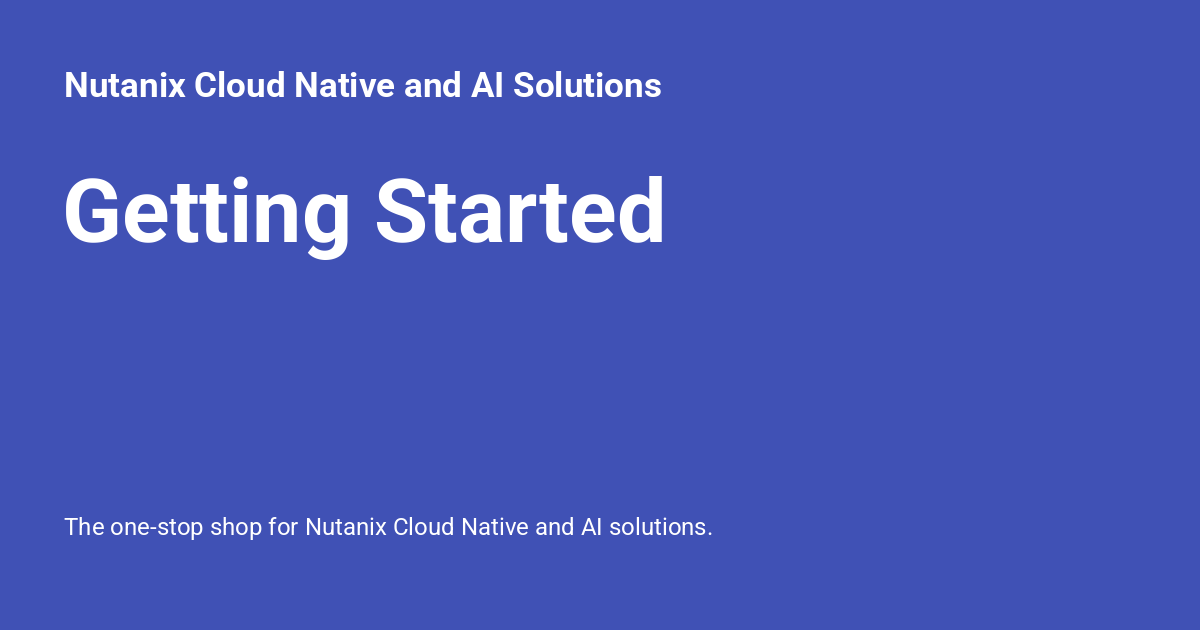
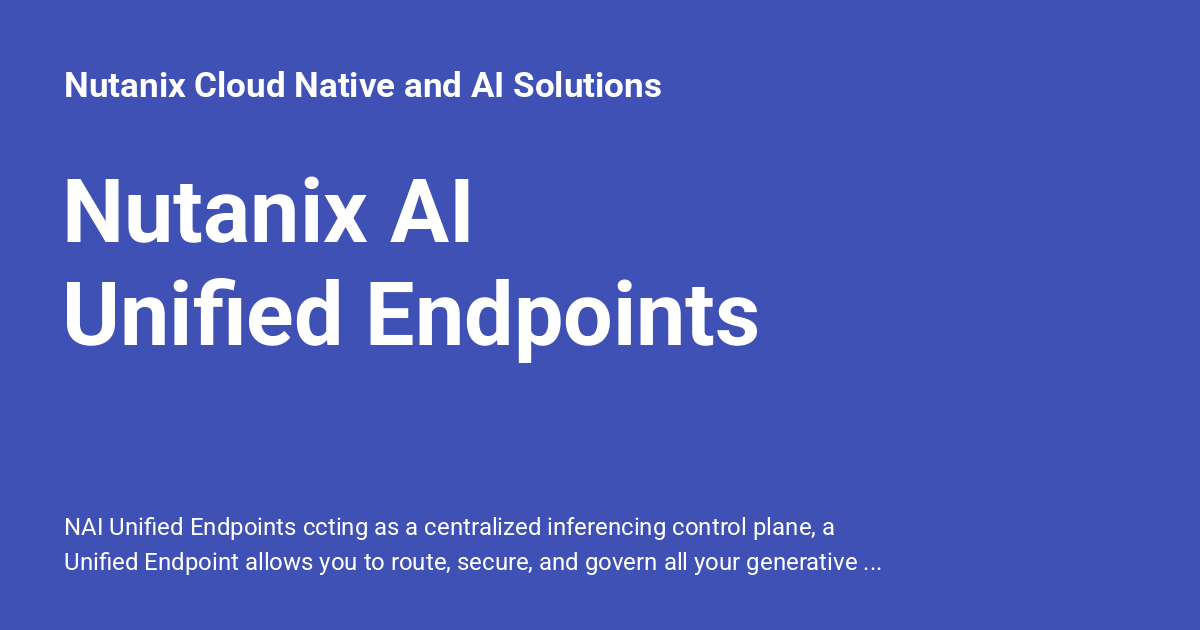
Deployed afb62fa8 to 2.7.0 with MkDocs 1.6.1 and mike 2.2.0

Changed region(s): [[0.0308, 0.4222, 0.6475, 0.573], [0.0308, 0.2714, 0.555, 0.4222], [0.0308, 0.8143, 0.7092, 0.9048]]

diff --git a/2.7.0/uep/index.html b/2.7.0/uep/index.html
@@ -6,7 +6,7 @@
       <meta charset="utf-8">
       <meta name="viewport" content="width=device-width,initial-scale=1">
       
-        <meta name="description" content="The one-stop shop for Nutanix Cloud Native and AI solutions. ">
+        <meta name="description" content="NAI Unified Endpoints ccting as a centralized inferencing control plane, a Unified Endpoint allows you to route, secure, and govern all your generative AI models—both self-hosted and cloud-based—behind a single, OpenAI-compatible API endpoint, all without needing to refactor your application code.">
       
       
       
@@ -27,7 +27,7 @@
     
     
       
-        <title>Getting Started - Nutanix Cloud Native and AI Solutions</title>
+        <title>Nutanix AI Unified Endpoints - Nutanix Cloud Native and AI Solutions</title>
       
     
     
@@ -136,16 +136,16 @@
     
   
 <meta property="og:type" content="website" />
-<meta property="og:title" content="Getting Started - Nutanix Cloud Native and AI Solutions" />
-<meta property="og:description" content="The one-stop shop for Nutanix Cloud Native and AI solutions. " />
+<meta property="og:title" content="Nutanix AI Unified Endpoints - Nutanix Cloud Native and AI Solutions" />
+<meta property="og:description" content="NAI Unified Endpoints ccting as a centralized inferencing control plane, a Unified Endpoint allows you to route, secure, and govern all your generative AI models—both self-hosted and cloud-based—behind a single, OpenAI-compatible API endpoint, all without needing to refactor your application code." />
 <meta property="og:image" content="https://nai.howntnx.win/2.7.0/assets/images/social/uep/index.png" />
 <meta property="og:image:type" content="image/png" />
 <meta property="og:image:width" content="1200" />
 <meta property="og:image:height" content="630" />
 <meta property="og:url" content="https://nai.howntnx.win/2.7.0/uep/" />
 <meta property="twitter:card" content="summary_large_image" />
-<meta property="twitter:title" content="Getting Started - Nutanix Cloud Native and AI Solutions" />
-<meta property="twitter:description" content="The one-stop shop for Nutanix Cloud Native and AI solutions. " />
+<meta property="twitter:title" content="Nutanix AI Unified Endpoints - Nutanix Cloud Native and AI Solutions" />
+<meta property="twitter:description" content="NAI Unified Endpoints ccting as a centralized inferencing control plane, a Unified Endpoint allows you to route, secure, and govern all your generative AI models—both self-hosted and cloud-based—behind a single, OpenAI-compatible API endpoint, all without needing to refactor your application code." />
 <meta property="twitter:image" content="https://nai.howntnx.win/2.7.0/assets/images/social/uep/index.png" />
 </head>
   
@@ -206,7 +206,7 @@
         <div class="md-header__topic" data-md-component="header-topic">
           <span class="md-ellipsis">
             
-              Getting Started
+              Nutanix AI Unified Endpoints
             
           </span>
         </div>
@@ -3324,7 +3324,7 @@
     <span class="md-icon" title="Last update">
       <svg xmlns="http://www.w3.org/2000/svg" viewBox="0 0 24 24"><path d="M21 13.1c-.1 0-.3.1-.4.2l-1 1 2.1 2.1 1-1c.2-.2.2-.6 0-.8l-1.3-1.3c-.1-.1-.2-.2-.4-.2m-1.9 1.8-6.1 6V23h2.1l6.1-6.1zM12.5 7v5.2l4 2.4-1 1L11 13V7zM11 21.9c-5.1-.5-9-4.8-9-9.9C2 6.5 6.5 2 12 2c5.3 0 9.6 4.1 10 9.3-.3-.1-.6-.2-1-.2s-.7.1-1 .2C19.6 7.2 16.2 4 12 4c-4.4 0-8 3.6-8 8 0 4.1 3.1 7.5 7.1 7.9l-.1.2z"/></svg>
     </span>
-    <span class="git-revision-date-localized-plugin git-revision-date-localized-plugin-date" title="June 4, 2026 06:19:27 UTC">June 4, 2026</span>
+    <span class="git-revision-date-localized-plugin git-revision-date-localized-plugin-date" title="June 4, 2026 06:23:38 UTC">June 4, 2026</span>
   </span>
 
     
